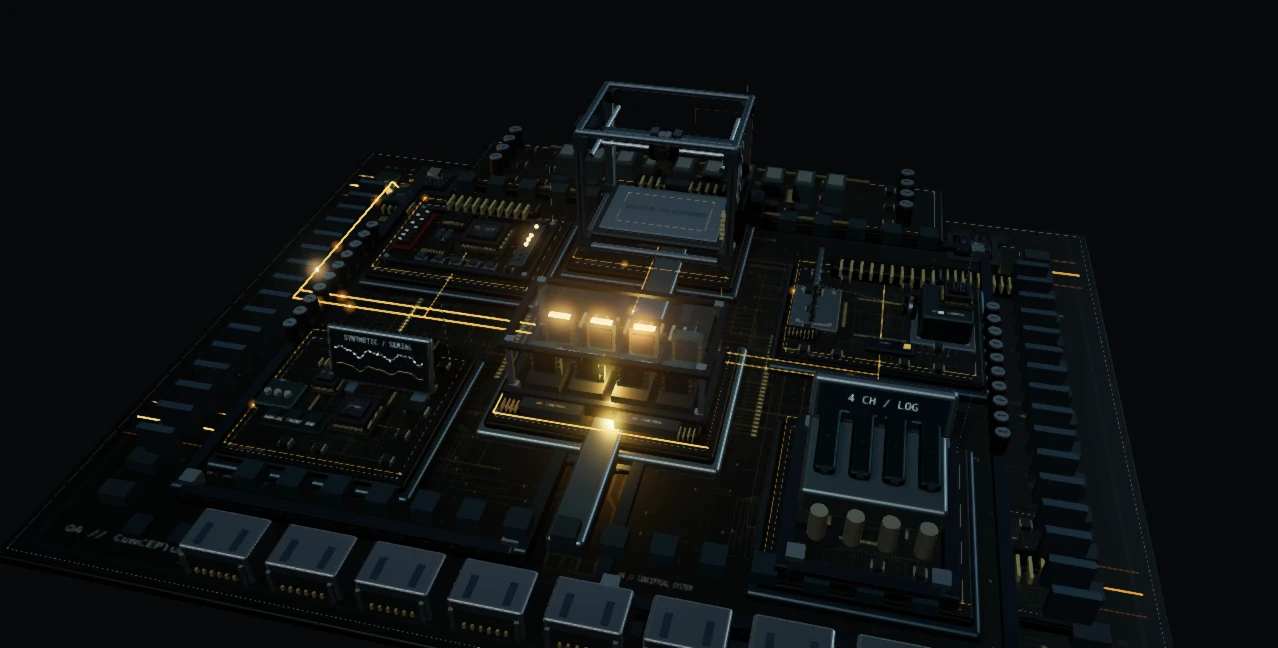
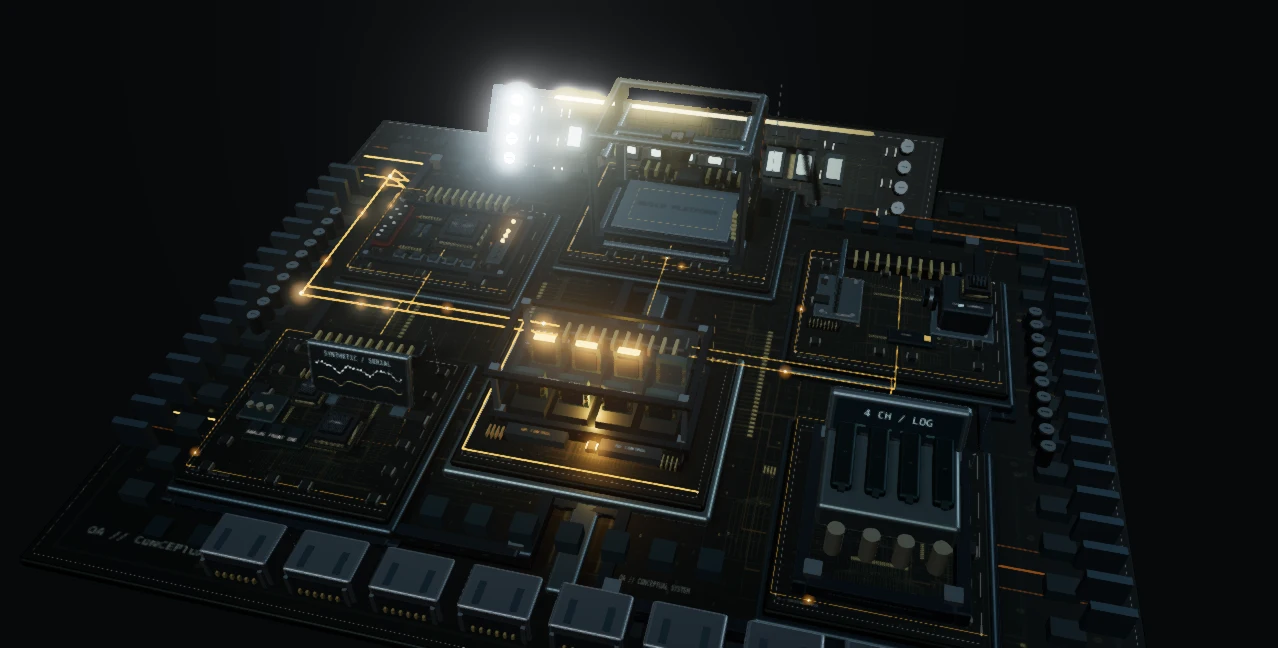
fix: fit complete project models within separate platform docks

diff --git a/src/components/three/ProjectFloorplan.tsx b/src/components/three/ProjectFloorplan.tsx
@@ -1,4 +1,4 @@
-import {useEffect,useRef,useState} from 'react';
+import {useCallback,useEffect,useRef,useState} from 'react';
 import {useFrame,useThree,type ThreeEvent} from '@react-three/fiber';
 import {Group,MathUtils,Vector3} from 'three';
 import {Html,Line} from '@react-three/drei';
@@ -10,29 +10,33 @@ import {PortBank,PowerShelf} from './EngineeringDetails';
 import {Printer} from './projects/CubexScene';
 import {setProjectIntent,activeProjectIntent} from '../../lib/project-selection';
 import {openProject,projectNavigationHolding,type ProjectOpening} from '../../lib/project-navigation';
+import ProjectMount,{type ModelMount} from './ProjectMount';
 import type {SceneProps} from './types';
 
 const regions=[
-  {id:'fifo',label:'FIFO',x:-.05,z:.58,width:2.04,depth:1.6,restY:-.06},
-  {id:'fpga-arithmetic',label:'FPGA',x:-2.02,z:-1.13,width:1.86,depth:1.56,restY:-.06},
-  {id:'lumalink',label:'LUMALINK',x:2.12,z:-.81,width:1.92,depth:1.62,restY:-.06},
-  {id:'emg',label:'EMG',x:-2.15,z:1.35,width:1.74,depth:1.72,restY:-.06},
-  {id:'mini-lysimeter',label:'DAQ',x:2.12,z:1.56,width:1.6,depth:1.8,restY:-.06},
-  {id:'cubex',label:'CUBEX',x:-.15,z:-1.85,width:1.8,depth:1.85,restY:-.06},
+  {id:'fifo',label:'FIFO',x:-.12,z:.90,dockWidth:2.24,dockDepth:1.88,modelScale:.6,restY:-.06},
+  {id:'fpga-arithmetic',label:'FPGA',x:-2.25,z:-1.02,dockWidth:1.92,dockDepth:1.66,modelScale:.43,restY:-.06},
+  {id:'lumalink',label:'LUMALINK',x:2.33,z:-.85,dockWidth:2.08,dockDepth:1.78,modelScale:.5,restY:-.06},
+  {id:'emg',label:'EMG',x:-2.35,z:1.55,dockWidth:1.98,dockDepth:1.94,modelScale:.45,restY:-.06},
+  {id:'mini-lysimeter',label:'DAQ',x:2.30,z:1.62,dockWidth:1.72,dockDepth:2.04,modelScale:1,restY:-.06},
+  {id:'cubex',label:'CUBEX',x:0,z:-1.90,dockWidth:2.3,dockDepth:1.95,modelScale:.71,restY:-.06},
 ];
 const ACTIVE_LIFT=.22;
-const views:Record<string,{scale:number;y:number;yaw:number}>={fifo:{scale:.6/1.15,y:.158+.6*.6,yaw:-.2},'fpga-arithmetic':{scale:.43,y:.122+.43*.42,yaw:-.18},emg:{scale:.45,y:.088+.45*.45,yaw:-.17},lumalink:{scale:.5,y:.0945+.5*.5,yaw:-.22},cubex:{scale:.71/1.15,y:.122+.71*.85,yaw:-.27},'mini-lysimeter':{scale:.55,y:.122+.3,yaw:-.12}};
+const views:Record<string,{scale:number;y:number;yaw:number}>={fifo:{scale:.6/1.15,y:.6,yaw:-.2},'fpga-arithmetic':{scale:.43,y:.42,yaw:-.18},emg:{scale:.45,y:.45,yaw:-.17},lumalink:{scale:.5,y:.5,yaw:-.22},cubex:{scale:.71/1.15,y:.85,yaw:-.27},'mini-lysimeter':{scale:.55,y:.3,yaw:-.12}};
 type CameraOpening={request:ProjectOpening;started:number;ready:boolean;complete:boolean;progress:number;from:Vector3;to:Vector3;target:Vector3;midCaptured:boolean};
 export default function ProjectFloorplan({reducedMotion,tier}:SceneProps) {
+  const [mounts,setMounts]=useState<Record<string,ModelMount>>({});
+  const measured=useRef<Record<string,ModelMount>>({});
+  const onMeasure=useCallback((id:string,mount:ModelMount)=>{measured.current[id]=mount;setMounts(previous=>({...previous,[id]:mount}));},[]);
   const [physical,setPhysical]=useState<string|null>(null);
   const [active,setActive]=useState('fifo'),[opening,setOpening]=useState<string|null>(null);
   const groups=useRef<(Group|null)[]>([]),transition=useRef<CameraOpening|null>(null);
   const down=useRef<{x:number;y:number;id:string;time:number}|null>(null),lastTouch=useRef<string|null>(null),look=useRef(new Vector3(0,.25,0));
   const {invalidate,camera,size,gl,scene}=useThree();
   const fit=Math.max(1,1.16/(size.width/size.height));
-  const base=useRef(new Vector3(0,5.7*fit,7*fit));
+  const base=useRef(new Vector3(0,6.3*fit,6.8*fit));
   useEffect(()=>{gl.domElement.dataset.selectedProject=active;gl.domElement.dataset.transition=opening||'idle';},[active,opening,gl]);
-  useEffect(()=>{base.current.set(0,5.7*fit,7*fit);camera.position.copy(base.current);camera.lookAt(0,.25,0);invalidate();},[camera,fit,invalidate]);
+  useEffect(()=>{base.current.set(0,6.3*fit,6.8*fit);camera.position.copy(base.current);camera.lookAt(0,.25,0);invalidate();},[camera,fit,invalidate]);
   useEffect(()=>{
     const read=(event:Event)=>{const id=(event as CustomEvent<string>).detail;if(regions.some(r=>r.id===id)){setActive(id);invalidate();}};
     const selected=document.querySelector<HTMLElement>('[data-project-world]')?.dataset.selected;
@@ -52,7 +56,8 @@ export default function ProjectFloorplan({reducedMotion,tier}:SceneProps) {
       const visible=Math.min(bounds.bottom,innerHeight)-Math.max(bounds.top,0);
       if(reducedMotion||transition.current||host?.dataset.state!=='ready'||host.dataset.renderLoop==='paused'||visible<bounds.height*.3)return;
       const region=regions.find(r=>r.id===request.id)!;const view=views[request.id];
-      const target=new Vector3(region.x,region.restY+ACTIVE_LIFT+view.y,region.z).applyAxisAngle(new Vector3(0,1,0),-.23);
+      const offset=measured.current[request.id]?.offset??[0,.122,0];
+      const target=new Vector3(offset[0],offset[1]+view.y*region.modelScale,offset[2]).applyAxisAngle(new Vector3(0,1,0),view.yaw+.23).add(new Vector3(region.x,region.restY+ACTIVE_LIFT,region.z)).applyAxisAngle(new Vector3(0,1,0),-.23);
       const fitDetail=Math.max(1,1.2/(size.width/size.height));
       const to=target.clone().add(new Vector3(0,2.6,6.2).multiplyScalar(view.scale*.72*fitDetail));
       request.claim();setActive(request.id);setPhysical(request.id);setOpening(request.id);
@@ -82,6 +87,12 @@ export default function ProjectFloorplan({reducedMotion,tier}:SceneProps) {
     window.addEventListener('portfolio:open-project',begin);window.addEventListener('portfolio:cancel-opening',cancel);
     return()=>{window.removeEventListener('portfolio:open-project',begin);window.removeEventListener('portfolio:cancel-opening',cancel);scene.onAfterRender=previous;transition.current=null;};
   },[gl,scene,camera,size.width,size.height,invalidate,reducedMotion]);
+  useEffect(()=>{
+    if(!window.__PORTFOLIO_PROFILE__)return;
+    const overview=()=>{camera.position.set(0,8.2*fit,3.8*fit);camera.lookAt(0,.25,0);invalidate();};
+    window.addEventListener('portfolio:footprint-overview',overview);
+    return()=>window.removeEventListener('portfolio:footprint-overview',overview);
+  },[camera,fit,invalidate]);
   useFrame((_,delta)=>{
     const motion=transition.current;
     groups.current.forEach((group,i)=>{if(group){const target=regions[i].restY+(!reducedMotion&&(regions[i].id===physical||regions[i].id===opening)?ACTIVE_LIFT:0);group.position.y=Math.abs(group.position.y-target)<.0005?target:MathUtils.damp(group.position.y,target,8,Math.min(delta,.25));}});
@@ -95,7 +106,7 @@ export default function ProjectFloorplan({reducedMotion,tier}:SceneProps) {
     const sample=window.__PORTFOLIO_PROFILE__?.scenes.floorplan;
     if(sample){
       if(motion)sample.navigation={id:motion.request.id,progress:motion.progress,camera:camera.position.toArray(),target:look.current.toArray()};
-      sample.mounts=regions.map((r,i)=>({id:r.id,restY:r.restY,y:groups.current[i]?.position.y??r.restY,activeLift:ACTIVE_LIFT}));
+      sample.mounts=regions.map((r,i)=>({id:r.id,restY:r.restY,x:groups.current[i]?.position.x??r.x,z:groups.current[i]?.position.z??r.z,y:groups.current[i]?.position.y??r.restY,activeLift:ACTIVE_LIFT}));
       sample.targets=regions.map((r,i)=>{
         const p=new Vector3(0,.36,-.05);groups.current[i]?.localToWorld(p);p.project(camera);
         return {id:r.id,x:(p.x+1)*size.width/2,y:(1-p.y)*size.height/2};
@@ -112,37 +123,39 @@ export default function ProjectFloorplan({reducedMotion,tier}:SceneProps) {
     else{lastTouch.current=id;setProjectIntent(id,'tap');}
   };
   return <group rotation={[0,-.23,0]}>
-    <group position={[0,-.37,-.12]}><SystemBed width={8.6} depth={6.6} tier={tier} reducedMotion={reducedMotion}/></group>
+    <group position={[0,-.37,-.28]}><SystemBed width={8.6} depth={7} peripherals={false} tier={tier} reducedMotion={reducedMotion}/></group>
     {[-1,1].map(s=><group key={`wing-${s}`} position={[s*1.72,-.17,s*.12]}><CircuitBoard width={2.9} depth={5.2} tier={tier} seed={56+s} components={false}/><Frame width={2.9} depth={5.2} height={.13}/></group>)}
-    <group position={[0,-.05,-2.94]}><PowerShelf tier={tier} scale={1.2}/></group>
+    <group position={[0,-.04,-3.4]} rotation={[Math.PI/3.5,0,0]}><PowerShelf tier={tier} scale={1.2}/></group>
     <group position={[0,-.16,2.9]}><PortBank width={5.4} count={8}/></group>
-    <Parts parts={[-1,1].flatMap(s=>Array.from({length:tier==='low'?8:16},(_,i)=>({position:[s*3.53,-.04,(i-(tier==='low'?7:15)/2)*.27] as [number,number,number],size:[.32,.28,.07] as [number,number,number]})))} color='#687e89' metalness={.91} roughness={.3} beveled={tier==='high'}/>
-    <group position={[0,-.02,0]}><Plate width={.3} depth={4.75} height={.19} color='#5b6d72'/></group>
-    {[-1,1].map(s=><group key={s} position={[s*3.1,.07,-.25]}><PowerBank count={10}/></group>)}
-    <Parts parts={[-1,1].flatMap(s=>Array.from({length:15},(_,i)=>({position:[(i-7)*.36,.08,s*2.3] as [number,number,number],size:[.18,.14,.19] as [number,number,number]})))} color='#1b2e34' metalness={.12}/>
-    {regions.map(region=><group key={`dock-${region.id}`} position={[region.x,-.17,region.z]}><Frame width={region.width+.08} depth={region.depth+.08} height={.05}/></group>)}
+    <Parts parts={[-1,1].flatMap(s=>Array.from({length:tier==='low'?8:16},(_,i)=>({position:[s*3.93,-.04,(i-(tier==='low'?7:15)/2)*.27] as [number,number,number],size:[.32,.28,.07] as [number,number,number]})))} color='#687e89' metalness={.91} roughness={.3} beveled={tier==='high'}/>
+    <group position={[0,-.165,0]}><Plate width={.22} depth={5.3} height={.09} color='#5b6d72'/></group>
+    {[-1,1].map(s=><group key={s} position={[s*3.56,.07,-.25]}><PowerBank count={10}/></group>)}
+    <Parts parts={[-1,1].flatMap(s=>Array.from({length:15},(_,i)=>({position:[(i-7)*.36,.08,s*2.3] as [number,number,number],size:[.18,.14,.19] as [number,number,number]})).filter(p=>!regions.some(r=>Math.abs(p.position[0]-r.x)<r.dockWidth/2+.1&&Math.abs(p.position[2]-r.z)<r.dockDepth/2+.1)))} color='#1b2e34' metalness={.12}/>
+    {regions.map(region=><group key={`dock-${region.id}`} position={[region.x,-.17,region.z]}><Frame width={region.dockWidth+.08} depth={region.dockDepth+.08} height={.05}/></group>)}
     {regions.map((region,i)=>{
-      const selected=region.id===active;
+      const selected=region.id===active,labelY=.222+(mounts[region.id]?.size[1]??1.2),hitHeight=labelY;
       return <group key={region.id} ref={g=>{groups.current[i]=g;}} position={[region.x,region.restY,region.z]}
         onPointerOver={event=>{event.stopPropagation();if(event.pointerType==='mouse'){setProjectIntent(region.id,'hover');gl.domElement.style.cursor='pointer';}}}
         onPointerOut={()=>{setProjectIntent(null,'hover');if(!transition.current)gl.domElement.style.cursor='';}}
         onPointerDown={event=>start(event,region.id)} onPointerUp={event=>end(event,region.id)} onPointerCancel={()=>{down.current=null;}}>
-        <mesh position={[0,.38,0]}><boxGeometry args={[region.width,.85,region.depth]}/><meshBasicMaterial transparent opacity={0} depthWrite={false}/></mesh>
-        <Plate width={region.width} depth={region.depth} height={.12} color={selected?'#687879':'#3a4a50'} rim bolts={tier!=='low'}/>
-        <group position={[0,.07,0]}><CircuitBoard width={region.width-.12} depth={region.depth-.12} tier={tier} seed={i+70}/></group>
-        <group position={[0,.17,-region.depth/2+.13]}><Connector width={region.width*.5} count={10}/></group>
-        <Line points={[[region.width*.38,.19,-region.depth*.33],[region.width*.38,region.id==='cubex'?1.58:region.id==='fifo'?.92:.86,-region.depth*.33]]} color={selected?'#9e763f':'#576b73'} lineWidth={.55} raycast={()=>{}}/>
-        <Html position={[region.width*.38,region.id==='cubex'?1.65:region.id==='fifo'?.99:.93,-region.depth*.33]} center style={{pointerEvents:'none',opacity:opening&&region.id!==opening ? .3 : 1}}><span aria-hidden="true" style={{display:'block',whiteSpace:'nowrap',padding:'4px 8px',border:`1px solid ${selected?'#c69243':'#6a604c'}`,borderRadius:'2px',background:'#0b1013e0',color:selected?'#ffc36a':'#c0c8c9',font:'10px monospace',letterSpacing:'.04em',boxShadow:selected?'0 0 22px #ffac291c':'none'}}>{region.label}</span></Html>
-        {region.id==='fifo'&&<group position={[0,.158,0]}><MemoryBank scale={.6} occupied={selected?[true,true,true,false,false,false,false,false]:[true,false,false,false,false,false,false,false]}/></group>}
-        {region.id==='fpga-arithmetic'&&<group position={[0,.122,0]}><ArithmeticTile scale={.43} a={21} b={8} result={29} active={selected} reducedMotion={reducedMotion}/></group>}
-        {region.id==='emg'&&<group position={[0,.088,0]}><AcquisitionTile scale={.45} active={selected} reducedMotion={reducedMotion}/></group>}
-        {region.id==='lumalink'&&<group position={[0,.0945,0]}><OpticalTile scale={.5} active={selected} reducedMotion={reducedMotion}/></group>}
-        {region.id==='mini-lysimeter'&&<group position={[0,.122,0]}><InstrumentTile active={selected}/></group>}
-        {region.id==='cubex'&&<group position={[0,.122,0]}><Printer reducedMotion={reducedMotion} active={selected} scale={.71}/></group>}
-        <SignalTrace strength={selected?(opening?1.55:1.2):(opening ? .25 : .55)} reducedMotion={reducedMotion} active={!opening||selected} offset={i*.13} points={[[0,.145,-region.depth*.47],[-region.width*.44,.145,-region.depth*.47],[-region.width*.44,.145,region.depth*.4],[region.width*.44,.145,region.depth*.4]]}/>
+        <mesh position={[0,hitHeight/2,0]}><boxGeometry args={[region.dockWidth,hitHeight,region.dockDepth]}/><meshBasicMaterial transparent opacity={0} depthWrite={false}/></mesh>
+        <Plate width={region.dockWidth} depth={region.dockDepth} height={.12} color={selected?'#687879':'#3a4a50'} rim bolts={tier!=='low'}/>
+        <group position={[0,.07,0]}><CircuitBoard width={region.dockWidth-.12} depth={region.dockDepth-.12} tier={tier} seed={i+70}/></group>
+        <group position={[0,.17,-region.dockDepth/2+.13]}><Connector width={region.dockWidth*.5} count={10}/></group>
+        <Line points={[[region.dockWidth*.38,.19,-region.dockDepth*.33],[region.dockWidth*.38,labelY-.07,-region.dockDepth*.33]]} color={selected?'#9e763f':'#576b73'} lineWidth={.55} raycast={()=>{}}/>
+        <Html position={[region.dockWidth*.38,labelY,-region.dockDepth*.33]} center style={{pointerEvents:'none',opacity:opening&&region.id!==opening ? .3 : 1}}><span aria-hidden="true" style={{display:'block',whiteSpace:'nowrap',padding:'4px 8px',border:`1px solid ${selected?'#c69243':'#6a604c'}`,borderRadius:'2px',background:'#0b1013e0',color:selected?'#ffc36a':'#c0c8c9',font:'10px monospace',letterSpacing:'.04em',boxShadow:selected?'0 0 22px #ffac291c':'none'}}>{region.label}</span></Html>
+        <ProjectMount dock={region} onMeasure={onMeasure}>
+          {region.id==='fifo'&&<MemoryBank occupied={selected?[true,true,true,false,false,false,false,false]:[true,false,false,false,false,false,false,false]}/>}
+          {region.id==='fpga-arithmetic'&&<ArithmeticTile a={21} b={8} result={29} active={selected} reducedMotion={reducedMotion}/>}
+          {region.id==='emg'&&<AcquisitionTile active={selected} reducedMotion={reducedMotion}/>}
+          {region.id==='lumalink'&&<OpticalTile active={selected} reducedMotion={reducedMotion}/>}
+          {region.id==='mini-lysimeter'&&<InstrumentTile active={selected}/>}
+          {region.id==='cubex'&&<Printer reducedMotion={reducedMotion} active={selected}/>}
+        </ProjectMount>
+        <SignalTrace strength={selected?(opening?1.55:1.2):(opening ? .25 : .55)} reducedMotion={reducedMotion} active={!opening||selected} offset={i*.13} points={[[0,.145,-region.dockDepth*.47],[-region.dockWidth*.44,.145,-region.dockDepth*.47],[-region.dockWidth*.44,.145,region.dockDepth*.4],[region.dockWidth*.44,.145,region.dockDepth*.4]]}/>
         {selected&&<pointLight position={[0,.4,.2]} color='#ffb34d' intensity={opening?2.6:1.8} distance={2.1} decay={2}/>}
       </group>;
     })}
-    {regions.flatMap((r,i)=>[0,1].map(n=><SignalTrace key={`${r.id}-${n}`} spill={active===r.id&&n===0?1.3:0} strength={active===r.id?1.35:(opening ? .25 : .75)} reducedMotion={reducedMotion} active={!opening||active===r.id} offset={i*.13+n*.3} points={[[-3.9,-.25,-2.4+n*.13],[-3.35,-.25,-2.4+n*.13],[-3.35,.07,-2.13+n*.13],[-3.35,.07,n*.13],[r.x,.07,n*.13],[r.x,.07,r.z-r.depth*.48],[r.x,r.restY+.18+(!reducedMotion&&physical===r.id?ACTIVE_LIFT:0),r.z-r.depth*.48]]}/>))}
+    {regions.flatMap((r,i)=>[0,1].map(n=><SignalTrace key={`${r.id}-${n}`} spill={active===r.id&&n===0?1.3:0} strength={active===r.id?1.35:(opening ? .25 : .75)} reducedMotion={reducedMotion} active={!opening||active===r.id} offset={i*.13+n*.3} points={[[-3.9,-.25,-2.4+n*.13],[-3.35,-.25,-2.4+n*.13],[-3.35,.07,-2.13+n*.13],[-3.35,.07,n*.13],[r.x,.07,n*.13],[r.x,.07,r.z-r.dockDepth*.48],[r.x,r.restY+.18+(!reducedMotion&&physical===r.id?ACTIVE_LIFT:0),r.z-r.dockDepth*.48]]}/>))}
   </group>;
 }

diff --git a/src/components/three/ProjectMount.tsx b/src/components/three/ProjectMount.tsx
@@ -1,0 +1,33 @@
+import {useLayoutEffect,useRef,useState,type ReactNode} from 'react';
+import {Box3,Group,Vector3} from 'three';
+export type ProjectDock={id:string;dockWidth:number;dockDepth:number;modelScale:number};
+export type ModelMount={offset:[number,number,number];size:[number,number,number];rawMin:[number,number,number];rawMax:[number,number,number];fits:boolean;marginX:number;marginZ:number};
+const MOUNT_TOP=.122,EDGE_MARGIN=.08;
+export default function ProjectMount({dock,onMeasure,children}:{dock:ProjectDock;onMeasure:(id:string,mount:ModelMount)=>void;children:ReactNode}) {
+ const model=useRef<Group>(null),[mount,setMount]=useState<ModelMount|null>(null);
+ useLayoutEffect(()=>{
+  if(!model.current)return;
+  // Detached identity clone measures every physical child, including instanced
+  // controls, rails and labels, without the platform's world rotation or lift.
+  const copy=model.current.clone(true);copy.position.set(0,0,0);copy.rotation.set(0,0,0);copy.scale.setScalar(1);copy.updateMatrixWorld(true);
+  // Sprite halos are illumination, not physical parts. Line2's render vertices
+  // are unit extrusion quads; its geometry bounding box holds the actual route.
+  const halos:Group['children']=[];copy.traverse(object=>{if(object.type==='Sprite')halos.push(object);});halos.forEach(object=>object.removeFromParent());
+  const box=new Box3().setFromObject(copy,false),center=box.getCenter(new Vector3()),rawSize=box.getSize(new Vector3()),s=dock.modelScale;
+  const size=rawSize.multiplyScalar(s),marginX=(dock.dockWidth-size.x)/2,marginZ=(dock.dockDepth-size.z)/2;
+  const measured:ModelMount={offset:[-center.x*s,MOUNT_TOP-box.min.y*s,-center.z*s],size:size.toArray(),rawMin:box.min.toArray(),rawMax:box.max.toArray(),marginX,marginZ,fits:marginX>=dock.dockWidth*EDGE_MARGIN-.002&&marginZ>=dock.dockDepth*EDGE_MARGIN-.002};
+  model.current.position.set(...measured.offset);onMeasure(dock.id,measured);setMount(measured);
+  const p=window.__PORTFOLIO_PROFILE__;
+  if(p){const sample=p.scenes.floorplan??={};(sample.footprints??={})[dock.id]={...measured,dockWidth:dock.dockWidth,dockDepth:dock.dockDepth,modelScale:s};}
+  if(import.meta.env.DEV&&!measured.fits)console.error(`[project footprint] ${dock.id} exceeds its dock margin`,measured);
+ },[dock,onMeasure]);
+ const debug=import.meta.env.DEV&&new URLSearchParams(location.search).has('footprints');
+ return <group>
+  <group ref={model} scale={dock.modelScale}>{children}</group>
+  {debug&&mount&&<>
+   <mesh position={[0,MOUNT_TOP+.005,0]}><boxGeometry args={[dock.dockWidth,.01,dock.dockDepth]}/><meshBasicMaterial wireframe color='#68b9ff'/></mesh>
+   <mesh position={[0,MOUNT_TOP+mount.size[1]/2,0]}><boxGeometry args={mount.size}/><meshBasicMaterial wireframe color={mount.fits?'#63ff94':'#ff516d'}/></mesh>
+   <axesHelper args={[.3]}/><axesHelper args={[.2]} position={[0,MOUNT_TOP+mount.size[1]/2,0]}/>
+  </>}
+ </group>;
+}

diff --git a/src/components/three/Circuitry.tsx b/src/components/three/Circuitry.tsx
@@ -83,15 +83,15 @@ export function Connector({width=1,count=12}:{width?:number;count?:number}) {
  return <group><Plate width={width+.1} depth={.22} height={.18} color='#22292a'/><Parts parts={pins} color='#c5b57f'/></group>;
 }
 
-export function SystemBed({reducedMotion,tier:requestedTier,width=7.8,depth=6}:{reducedMotion:boolean;tier?:GraphicsTier;width?:number;depth?:number}) {
+export function SystemBed({reducedMotion,tier:requestedTier,width=7.8,depth=6,peripherals=true}:{reducedMotion:boolean;tier?:GraphicsTier;width?:number;depth?:number;peripherals?:boolean}) {
  const inheritedTier=useDetailTier(),tier=requestedTier||inheritedTier;
  return <group>
   <CircuitBoard width={width} depth={depth} tier={tier} seed={33} components={false}/>
-  <group position={[-width*.38,.08,-depth*.29]}><CircuitBoard width={1.1} depth={1.3} tier={tier} seed={41}/><Processor width={.45} active={false}/></group>
-  <group position={[width*.36,.09,depth*.25]}><CircuitBoard width={1.2} depth={1.1} tier={tier} seed={47}/><Connector width={.7} count={8}/></group>
+  {peripherals&&<group position={[-width*.38,.08,-depth*.29]}><CircuitBoard width={1.1} depth={1.3} tier={tier} seed={41}/><Processor width={.45} active={false}/></group>}
+  {peripherals&&<group position={[width*.36,.09,depth*.25]}><CircuitBoard width={1.2} depth={1.1} tier={tier} seed={47}/><Connector width={.7} count={8}/></group>}
   <Parts parts={[-1,1].flatMap(s=>Array.from({length:tier==='low'?8:15},(_,i)=>({position:[s*width*.43,.1,(i-7)*depth/18] as [number,number,number],size:[.25,.14,.16] as [number,number,number]})))} color='#17272c' metalness={.15} roughness={.67}/>
   <Parts parts={[-1,1].flatMap(s=>Array.from({length:18},(_,i)=>({position:[(i-8.5)*width/22,.11,s*depth*.43] as [number,number,number],size:[.17,.065,.19] as [number,number,number]})))} color='#28373b' metalness={.6} roughness={.4}/>
-  {[-1,1].map(s=><group key={s} position={[s*width*.35,.07,-depth*.36]}><CircuitBoard width={1.2} depth={.85} tier={tier} seed={42+s}/><Processor width={.52} active={false}/><group position={[0,.1,.48]}><Connector width={.9}/></group></group>)}
+  {peripherals&&[-1,1].map(s=><group key={s} position={[s*width*.35,.07,-depth*.36]}><CircuitBoard width={1.2} depth={.85} tier={tier} seed={42+s}/><Processor width={.52} active={false}/><group position={[0,.1,.48]}><Connector width={.9}/></group></group>)}
   {[-1,1].flatMap(side=>[0,1,2].map(n=><SignalTrace key={`${side}-${n}`} reducedMotion={reducedMotion} duty={n===1?.65:.22} period={n===1?17:11+n*3} offset={n*.19+(side+1)*.18} strength={n===1?1.4:.8} points={[[side*width*.48,.074,-depth*.4+n*.23],[side*(1.7+n*.21),.074,-depth*.4+n*.23],[side*(1.7+n*.21),.074,depth*.23+n*.2],[side*width*.48,.074,depth*.23+n*.2]]}/>))}
  </group>;
 }

diff --git a/src/components/three/profile.ts b/src/components/three/profile.ts
@@ -1,3 +1,4 @@
-export interface SceneSample {navigation?:{id:string;progress:number;camera:number[];target:number[]};navigationMidFrame?:string;firstFrameMs?:number;dpr?:number;drawCalls?:number;triangles?:number;textures?:number;geometries?:number;pose?:number[];targets?:{id:string;x:number;y:number}[];stage?:number;mounts?:{id:string;restY:number;y:number;activeLift:number}[];pmremMs?:number;compileMs?:number;compileStartedMs?:number;labelUpdateMs?:number;renderer?:string;programs?:number;}
+import type {ModelMount} from './ProjectMount';
+export interface SceneSample {footprints?:Record<string,ModelMount&{dockWidth:number;dockDepth:number;modelScale:number}>;navigation?:{id:string;progress:number;camera:number[];target:number[]};navigationMidFrame?:string;firstFrameMs?:number;dpr?:number;drawCalls?:number;triangles?:number;textures?:number;geometries?:number;pose?:number[];targets?:{id:string;x:number;y:number}[];stage?:number;mounts?:{id:string;restY:number;x:number;z:number;y:number;activeLift:number}[];pmremMs?:number;compileMs?:number;compileStartedMs?:number;labelUpdateMs?:number;renderer?:string;programs?:number;}
 declare global {interface Window {__PORTFOLIO_PROFILE__?:{frames:number[];scenes:Record<string,SceneSample>;interactive?:number};}}
 export const profileEnabled=()=>typeof window!=='undefined'&&Boolean(window.__PORTFOLIO_PROFILE__);

diff --git a/docs/footprint-review/README.md b/docs/footprint-review/README.md
@@ -1,0 +1,9 @@
+# Project Platform footprint correction
+
+All six core models use explicit dock width, dock depth, uniform model scale and resting height. A mount wrapper measures the complete physical hierarchy once after construction, centers X/Z, and aligns the physical bottom with the dock's PCB mounting plane. Controls, connectors, labels, printer controller, motors and rails are included. HTML callouts and sprite illumination are excluded. Line2 bounds use route bounds rather than extrusion shader vertices.
+
+FIFO and CubeX retain their original uniform scales (0.60 and 0.71). Wider docks and the revised layout separate the full printer from the FIFO controls. Peripheral hardware and routes follow the new dock layout. Labels follow measured model heights.
+
+`?footprints` on a development build shows dock bounds, model bounds, center and origin axes. Debug geometry is absent from production. The construction-time fit check requires at least 8% of dock width/depth as clearance at every edge. `node scripts/project-footprints-check.mjs` asserts all six fits, separate dock frames, +0.22 FIFO/CubeX hover with unchanged X/Z, and exact return to rest. It captures only idle, FIFO hover, CubeX hover and a top overview; measurements are in bounds.json.
+
+The existing cinematic transition implementation remains; its focus coordinates account for the normalized model origin and new dock positions. TypeScript, changed-file lint and the production build pass. Platform captures use software WebGL in this workspace.
